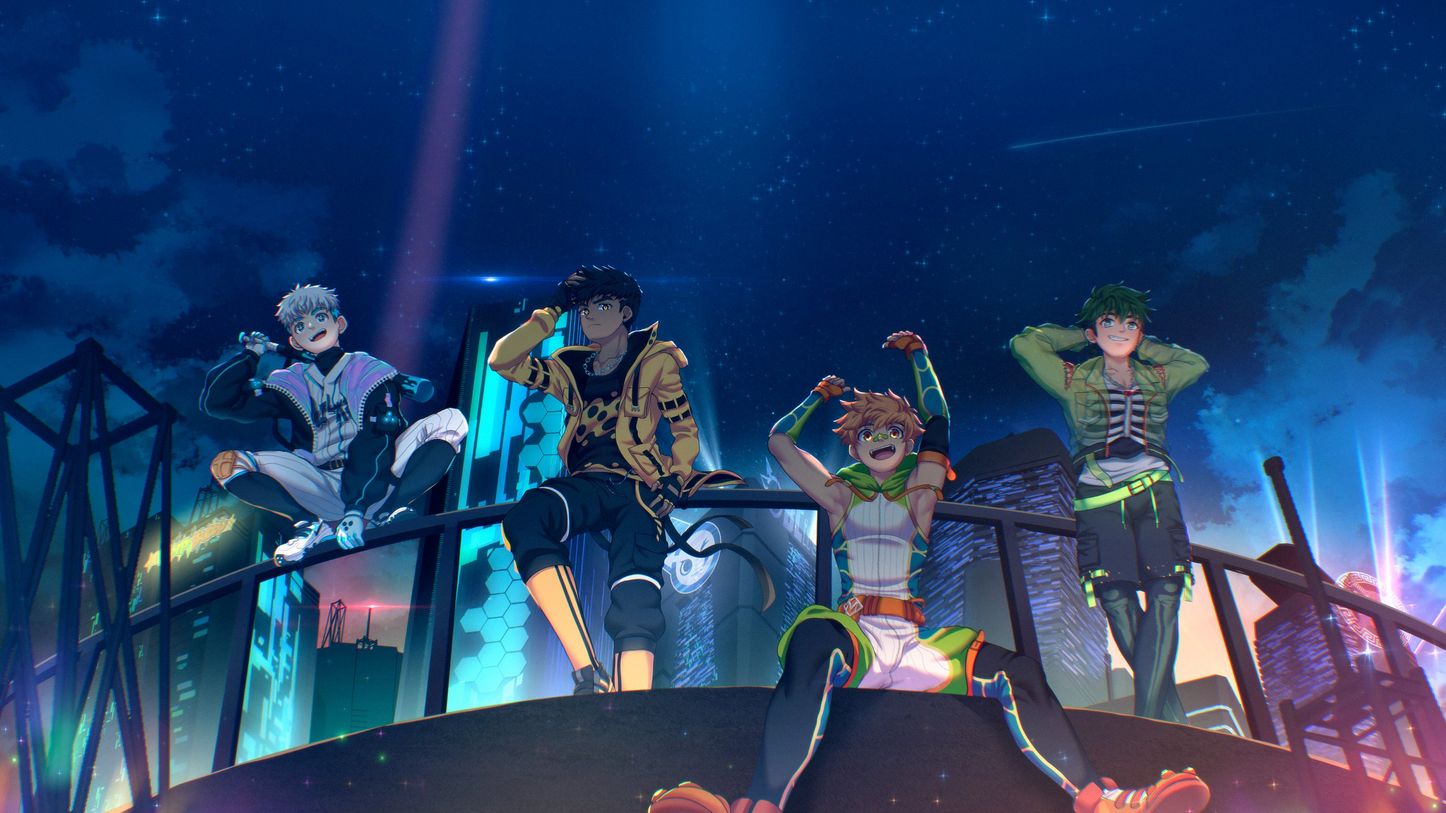
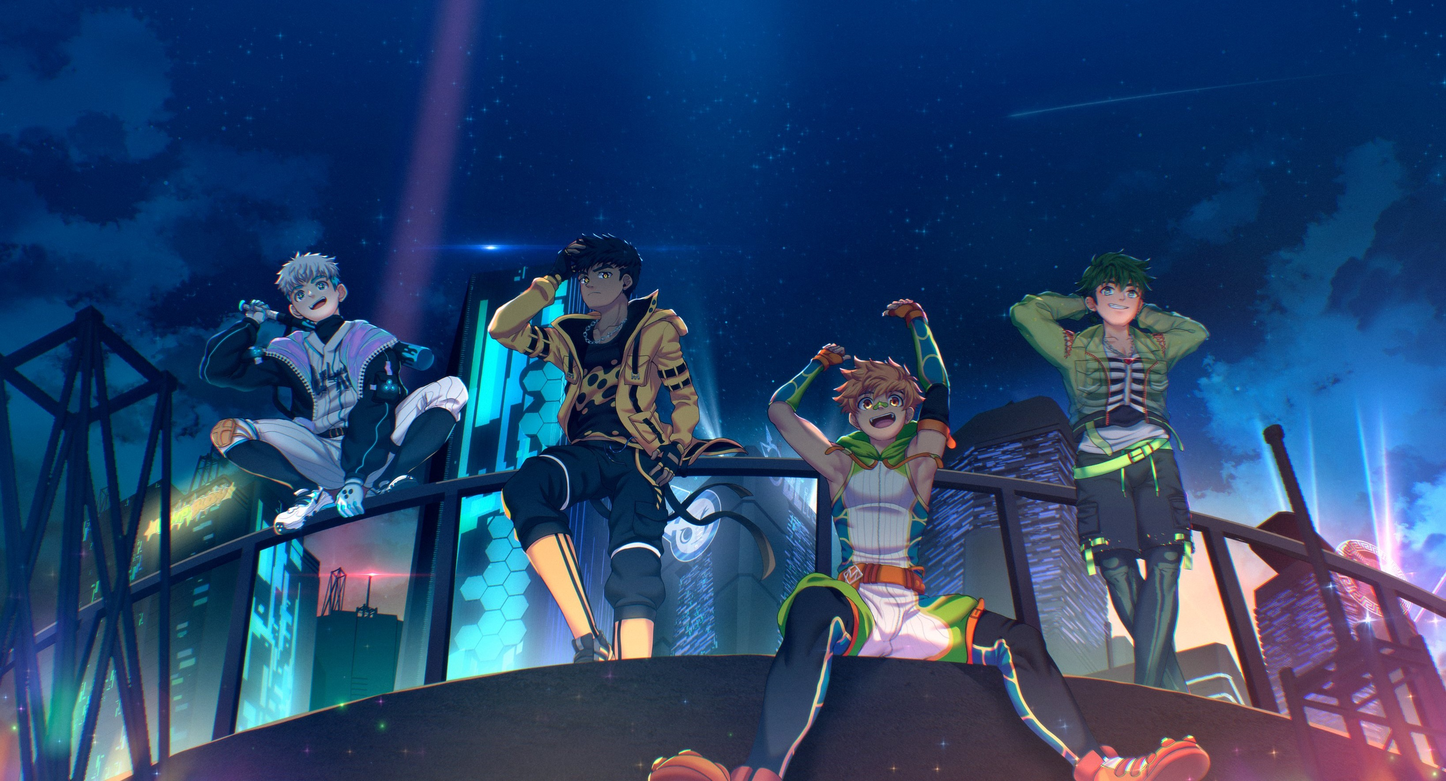
Site updated: 2025-06-13 22:01:29

diff --git a/about/index.html b/about/index.html
@@ -27,7 +27,7 @@
 <meta property="og:description" content="Hey! kintsgi here. 稍微介绍一下本博客的几种文章类型！  学习笔记（所有笔记文章都会带其对应的细分 tag，如 string, poly 等） 做题笔记，模拟赛，CF&#x2F;AT 总结等题目类整理博客（一个类别只有一种 tag，例如模拟赛 tag 为 simulation） 推歌（不知道有没有时间写这种东西，可能会被合并到日记里？） 日记（不带 tag，默认 hide，但是也可以通过一">
 <meta property="og:locale" content="zh_CN">
 <meta property="article:published_time" content="2025-06-09T03:29:41.000Z">
-<meta property="article:modified_time" content="2025-06-13T12:52:57.658Z">
+<meta property="article:modified_time" content="2025-06-13T13:23:50.868Z">
 <meta property="article:author" content="kintsgi">
 <meta name="twitter:card" content="summary_large_image">
   
@@ -291,7 +291,7 @@
 <li>日记（不带 tag，默认 hide，但是也可以通过一些很蠢的方法找到访问链接）</li>
 </ul>
 <p>不知道评论功能能不能用（？）如果能用希望大家多评论（这个博客好冷清呜呜呜🥺）</p>
-<p>本人 QQid = 3031530334，平常不用微信！基本上各网站同名（CF 为 Ch.II，AT 为 pentiment，有些可能有一些额外的号，但是应该上很少用）欢迎交换友链 ❤</p>
+<p>本人 QQid = 3031530334，平常不用微信！基本上各网站同名（CF 为 Ch.II，AT 为 pentiment，有些可能有一些额外的号，但是很少用）欢迎交换友链 ❤</p>
 <p>好吧，不知道说什么了，先这样！</p>
 <hr>
 <p>彩蛋：如果有人知道首页大图的 source，可以找我交流其相关内容😽</p>

diff --git a/index.html b/index.html
@@ -185,7 +185,7 @@
 <div id="banner" class="banner" parallax=true
      style="background: url('/img/bg/main_bg.jpg') no-repeat center center; background-size: cover;">
   <div class="full-bg-img">
-    <div class="mask flex-center" style="background-color: rgba(0, 0, 0, 0.3)">
+    <div class="mask flex-center" style="background-color: rgba(0, 0, 0, 0)">
       <div class="banner-text text-center fade-in-up">
         <div class="h2">
           
